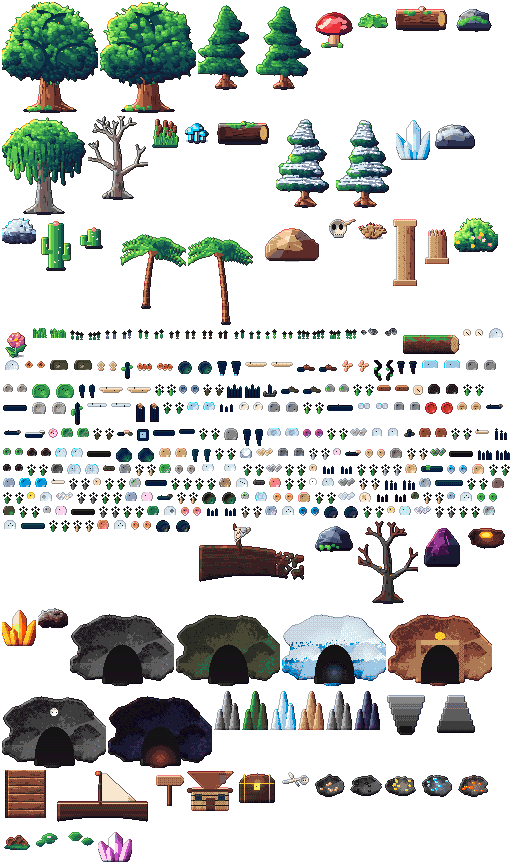
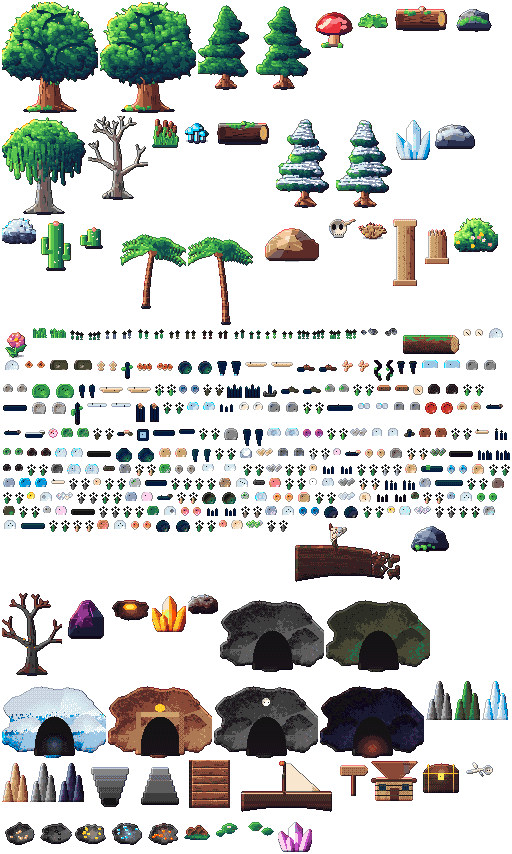
Ciclos 441-450/1000: 5 props (atlas 398) + testes economia/bestiário-all + evento abelha dourada + dica

diff --git a/src/game/RegionWorld.js b/src/game/RegionWorld.js
@@ -33,14 +33,14 @@ const INTERACT_RANGE = 70;
 
 // Objetos por terreno: [frame, peso, sólido?]. Sólido = base que bloqueia (largura, altura).
 const PROPS = {
-  [T.FOREST]: { density: 0.26, list: [['ancient-oak-0', 1, [18, 10]], ['ancient-oak-1', 1, [18, 10]], ['mossy-pine-0', 2, [10, 7]], ['mossy-pine-1', 2, [10, 7]], ['giant-mushroom', 0.6, [10, 6]], ['fern', 3], ['fallen-log', 0.6, [40, 10]], ['mossy-rock', 1, [24, 10]], ['grass-tuft-0', 4], ['grass-tuft-1', 4], ['flower-tuft-0', 1.2], ['flower-tuft-1', 1.2], ['forest-flower-0', 0.8], ['forest-flower-1', 0.8], ['pebbles-0', 0.7], ['pebbles-1', 0.7], ['mushroom-cluster-0', 0.5], ['mushroom-cluster-1', 0.5], ['berry-bush-0', 0.6], ['berry-bush-1', 0.6], ['yellow-flower-0', 0.7], ['yellow-flower-1', 0.7], ['bark-scrap-0', 0.5], ['bark-scrap-1', 0.5], ['pink-flower-0', 0.6], ['pink-flower-1', 0.6], ['rotten-log', 0.4, [30, 9]], ['red-cap-0', 0.4], ['red-cap-1', 0.4], ['tan-shroom-0', 0.4], ['tan-shroom-1', 0.4], ['orange-shroom-0', 0.4], ['orange-shroom-1', 0.4], ['pink-shroom-0', 0.4], ['pink-shroom-1', 0.4], ['coral-shroom-0', 0.4], ['coral-shroom-1', 0.4], ['mossy-log', 0.35, [28, 8]], ['light-purple-flower-0', 0.5], ['light-purple-flower-1', 0.5], ['peach-forest-flower-0', 0.5], ['peach-forest-flower-1', 0.5], ['blue-forest-flower-0', 0.5], ['blue-forest-flower-1', 0.5], ['teal-forest-flower-0', 0.5], ['teal-forest-flower-1', 0.5], ['hot-pink-flower-0', 0.5], ['hot-pink-flower-1', 0.5], ['dark-bark', 0.5], ['blush-forest-flower-0', 0.5], ['blush-forest-flower-1', 0.5], ['forest-gravel', 0.6], ['forest-branch', 0.5], ['yellow-forest-bush-0', 0.5], ['yellow-forest-bush-1', 0.5], ['forest-boulder', 0.3, [14, 8]]] },
+  [T.FOREST]: { density: 0.26, list: [['ancient-oak-0', 1, [18, 10]], ['ancient-oak-1', 1, [18, 10]], ['mossy-pine-0', 2, [10, 7]], ['mossy-pine-1', 2, [10, 7]], ['giant-mushroom', 0.6, [10, 6]], ['fern', 3], ['fallen-log', 0.6, [40, 10]], ['mossy-rock', 1, [24, 10]], ['grass-tuft-0', 4], ['grass-tuft-1', 4], ['flower-tuft-0', 1.2], ['flower-tuft-1', 1.2], ['forest-flower-0', 0.8], ['forest-flower-1', 0.8], ['pebbles-0', 0.7], ['pebbles-1', 0.7], ['mushroom-cluster-0', 0.5], ['mushroom-cluster-1', 0.5], ['berry-bush-0', 0.6], ['berry-bush-1', 0.6], ['yellow-flower-0', 0.7], ['yellow-flower-1', 0.7], ['bark-scrap-0', 0.5], ['bark-scrap-1', 0.5], ['pink-flower-0', 0.6], ['pink-flower-1', 0.6], ['rotten-log', 0.4, [30, 9]], ['red-cap-0', 0.4], ['red-cap-1', 0.4], ['tan-shroom-0', 0.4], ['tan-shroom-1', 0.4], ['orange-shroom-0', 0.4], ['orange-shroom-1', 0.4], ['pink-shroom-0', 0.4], ['pink-shroom-1', 0.4], ['coral-shroom-0', 0.4], ['coral-shroom-1', 0.4], ['mossy-log', 0.35, [28, 8]], ['light-purple-flower-0', 0.5], ['light-purple-flower-1', 0.5], ['peach-forest-flower-0', 0.5], ['peach-forest-flower-1', 0.5], ['blue-forest-flower-0', 0.5], ['blue-forest-flower-1', 0.5], ['teal-forest-flower-0', 0.5], ['teal-forest-flower-1', 0.5], ['hot-pink-flower-0', 0.5], ['hot-pink-flower-1', 0.5], ['turquoise-forest-flower-0', 0.5], ['turquoise-forest-flower-1', 0.5], ['dark-bark', 0.5], ['blush-forest-flower-0', 0.5], ['blush-forest-flower-1', 0.5], ['forest-gravel', 0.6], ['forest-branch', 0.5], ['yellow-forest-bush-0', 0.5], ['yellow-forest-bush-1', 0.5], ['forest-boulder', 0.3, [14, 8]]] },
   [T.SWAMP]: { density: 0.17, list: [['willow', 1.4, [14, 9]], ['dead-tree', 1.4, [10, 7]], ['reeds', 3], ['swamp-shroom', 1.2], ['bog-log', 0.5, [40, 10]], ['mossy-rock', 0.5, [24, 10]], ['grass-tuft-0', 3], ['flower-tuft-1', 0.6], ['swamp-flower-0', 0.6], ['swamp-flower-1', 0.6], ['mud-puddle-0', 0.5], ['mud-puddle-1', 0.5], ['twisted-root-0', 0.5], ['twisted-root-1', 0.5], ['river-stone-0', 0.5, [10, 6]], ['river-stone-1', 0.5, [10, 6]], ['blue-mushroom-0', 0.5], ['blue-mushroom-1', 0.5], ['moss-pebble-0', 0.6], ['moss-pebble-1', 0.6], ['reed-0', 0.7], ['reed-1', 0.7], ['green-stone-0', 0.5, [10, 6]], ['green-stone-1', 0.5, [10, 6]], ['lilac-flower-0', 0.5], ['lilac-flower-1', 0.5], ['swamp-root', 0.5], ['swamp-pebble-0', 0.5], ['swamp-pebble-1', 0.5], ['yellow-swamp-flower-0', 0.5], ['yellow-swamp-flower-1', 0.5], ['swamp-gravel', 0.6], ['pink-swamp-flower-0', 0.5], ['pink-swamp-flower-1', 0.5], ['dark-river-stone', 0.5, [10, 6]], ['gray-shroom-0', 0.4], ['gray-shroom-1', 0.4], ['green-shroom-0', 0.4], ['green-shroom-1', 0.4], ['navy-shroom-0', 0.4], ['navy-shroom-1', 0.4], ['white-swamp-flower-0', 0.5], ['white-swamp-flower-1', 0.5], ['light-blue-shroom-0', 0.4], ['light-blue-shroom-1', 0.4], ['light-river-stone', 0.5, [10, 6]], ['blue-swamp-flower-0', 0.5], ['blue-swamp-flower-1', 0.5], ['orange-swamp-flower-0', 0.5], ['orange-swamp-flower-1', 0.5], ['teal-swamp-flower-0', 0.5], ['teal-swamp-flower-1', 0.5], ['gold-swamp-flower-0', 0.5], ['gold-swamp-flower-1', 0.5], ['dark-purple-swamp-flower-0', 0.5], ['dark-purple-swamp-flower-1', 0.5], ['coral-swamp-flower-0', 0.5], ['coral-swamp-flower-1', 0.5], ['white-flowered-swamp-bush-0', 0.4], ['white-flowered-swamp-bush-1', 0.4]] },
-  [T.SNOW]: { density: 0.15, list: [['snow-pine-0', 2, [10, 7]], ['snow-pine-1', 2, [10, 7]], ['ice-crystal', 1, [16, 8]], ['snow-rock', 1.4, [28, 10]], ['frozen-bush', 1.4], ['grass-tuft-1', 1.5], ['snow-flower-0', 0.8], ['snow-flower-1', 0.8], ['pebbles-0', 0.5], ['pebbles-1', 0.5], ['frozen-log', 0.5, [40, 10]], ['snow-mound-0', 0.6], ['snow-mound-1', 0.6], ['ice-shard-0', 0.6, [6, 10]], ['ice-shard-1', 0.6, [6, 10]], ['ice-spike-0', 0.6, [4, 8]], ['ice-spike-1', 0.6, [4, 8]], ['white-flower-0', 0.6], ['white-flower-1', 0.6], ['blue-ice-0', 0.5], ['blue-ice-1', 0.5], ['snow-track-0', 0.6], ['snow-track-1', 0.6], ['snow-branch', 0.4, [24, 10]], ['carved-ice', 0.4, [10, 10]], ['snow-hollow-0', 0.5], ['snow-hollow-1', 0.5], ['snow-pile-0', 0.5], ['snow-pile-1', 0.5], ['blue-snow-flower-0', 0.5], ['blue-snow-flower-1', 0.5], ['clear-ice-rock-0', 0.5, [10, 6]], ['clear-ice-rock-1', 0.5, [10, 6]], ['snow-covered-rock', 0.4, [12, 7]], ['lilac-ice-flower-0', 0.5], ['lilac-ice-flower-1', 0.5], ['ice-log', 0.35, [30, 9]], ['cracked-ice-0', 0.5], ['cracked-ice-1', 0.5], ['wind-snow-0', 0.5], ['wind-snow-1', 0.5], ['mint-ice-flower-0', 0.5], ['mint-ice-flower-1', 0.5], ['deep-blue-ice-0', 0.5], ['deep-blue-ice-1', 0.5], ['flowered-snow', 0.5], ['pale-blue-ice', 0.5], ['gray-snow-rock', 0.5, [10, 6]], ['pebbled-snow', 0.5], ['pink-ice', 0.4, [10, 6]], ['shattered-ice', 0.5], ['snow-gravel', 0.6], ['blue-flowered-snow', 0.5], ['lilac-ice', 0.4, [10, 6]], ['dark-pebbled-snow', 0.5], ['pink-flowered-snow', 0.5], ['teal-ice', 0.4, [10, 6]], ['yellow-flowered-snow', 0.5], ['green-flowered-snow', 0.5]] },
+  [T.SNOW]: { density: 0.15, list: [['snow-pine-0', 2, [10, 7]], ['snow-pine-1', 2, [10, 7]], ['ice-crystal', 1, [16, 8]], ['snow-rock', 1.4, [28, 10]], ['frozen-bush', 1.4], ['grass-tuft-1', 1.5], ['snow-flower-0', 0.8], ['snow-flower-1', 0.8], ['pebbles-0', 0.5], ['pebbles-1', 0.5], ['frozen-log', 0.5, [40, 10]], ['snow-mound-0', 0.6], ['snow-mound-1', 0.6], ['ice-shard-0', 0.6, [6, 10]], ['ice-shard-1', 0.6, [6, 10]], ['ice-spike-0', 0.6, [4, 8]], ['ice-spike-1', 0.6, [4, 8]], ['white-flower-0', 0.6], ['white-flower-1', 0.6], ['blue-ice-0', 0.5], ['blue-ice-1', 0.5], ['snow-track-0', 0.6], ['snow-track-1', 0.6], ['snow-branch', 0.4, [24, 10]], ['carved-ice', 0.4, [10, 10]], ['snow-hollow-0', 0.5], ['snow-hollow-1', 0.5], ['snow-pile-0', 0.5], ['snow-pile-1', 0.5], ['blue-snow-flower-0', 0.5], ['blue-snow-flower-1', 0.5], ['clear-ice-rock-0', 0.5, [10, 6]], ['clear-ice-rock-1', 0.5, [10, 6]], ['snow-covered-rock', 0.4, [12, 7]], ['lilac-ice-flower-0', 0.5], ['lilac-ice-flower-1', 0.5], ['ice-log', 0.35, [30, 9]], ['cracked-ice-0', 0.5], ['cracked-ice-1', 0.5], ['wind-snow-0', 0.5], ['wind-snow-1', 0.5], ['mint-ice-flower-0', 0.5], ['mint-ice-flower-1', 0.5], ['deep-blue-ice-0', 0.5], ['deep-blue-ice-1', 0.5], ['flowered-snow', 0.5], ['pale-blue-ice', 0.5], ['gray-snow-rock', 0.5, [10, 6]], ['pebbled-snow', 0.5], ['pink-ice', 0.4, [10, 6]], ['shattered-ice', 0.5], ['snow-gravel', 0.6], ['blue-flowered-snow', 0.5], ['lilac-ice', 0.4, [10, 6]], ['dark-pebbled-snow', 0.5], ['pink-flowered-snow', 0.5], ['teal-ice', 0.4, [10, 6]], ['yellow-flowered-snow', 0.5], ['green-flowered-snow', 0.5], ['coral-ice', 0.4, [10, 6]]] },
   [T.SAND]: { density: 0.07, list: [['cactus', 2, [12, 7]], ['cactus-small', 2, [10, 6]], ['desert-rock', 1, [40, 12]], ['skull', 0.7], ['dry-bush', 2], ['ruin-pillar', 0.3, [18, 8]], ['ruin-pillar-broken', 0.4, [18, 8]], ['grass-tuft-0', 1.5], ['dune-flower-0', 0.7], ['dune-flower-1', 0.7], ['pebbles-0', 0.6], ['pebbles-1', 0.6], ['blooming-cactus', 0.4, [12, 7]], ['tall-cactus', 0.35, [10, 12]], ['footprint-0', 0.4], ['footprint-1', 0.4], ['desert-bloom-0', 0.5], ['desert-bloom-1', 0.5], ['carved-pebble-0', 0.5], ['carved-pebble-1', 0.5], ['dry-log', 0.4, [28, 8]], ['white-desert-flower-0', 0.5], ['white-desert-flower-1', 0.5], ['desert-stone-0', 0.5, [10, 6]], ['desert-stone-1', 0.5, [10, 6]], ['pink-dune-flower-0', 0.5], ['pink-dune-flower-1', 0.5], ['lilac-dune-flower-0', 0.5], ['lilac-dune-flower-1', 0.5], ['red-dune-flower-0', 0.5], ['red-dune-flower-1', 0.5], ['white-dune-flower-0', 0.5], ['white-dune-flower-1', 0.5], ['magenta-dune-flower-0', 0.5], ['magenta-dune-flower-1', 0.5], ['coral-dune-flower-0', 0.5], ['coral-dune-flower-1', 0.5]] },
   [T.DUNE]: { density: 0.03, list: [['dry-bush', 1], ['skull', 0.4], ['cactus-small', 0.5, [10, 6]], ['grass-tuft-1', 1], ['dune-flower-0', 0.5], ['dune-flower-1', 0.5], ['footprint-0', 0.5], ['footprint-1', 0.5], ['small-rock-0', 0.5], ['small-rock-1', 0.5], ['dune-wave-0', 0.6], ['dune-wave-1', 0.6], ['tall-grass-0', 0.6], ['tall-grass-1', 0.6], ['dry-bush-2', 0.7], ['dune-root', 0.5], ['dune-bloom', 0.5], ['dune-gravel', 0.6], ['dry-branch', 0.5], ['light-dune-pebble', 0.6], ['round-dune-rock', 0.4, [12, 7]], ['pink-dune-pebble', 0.6], ['dark-dune-stone', 0.5, [10, 6]], ['gold-dune-pebble', 0.6], ['dark-round-dune-rock', 0.4, [12, 7]], ['gray-dune-pebble', 0.6], ['dry-dune-bush-0', 0.5], ['dry-dune-bush-1', 0.5], ['lavender-dune-stone', 0.5, [10, 6]], ['lilac-dune-gravel', 0.6], ['pale-dune-log', 0.3, [30, 9]]] },
-  [T.BEACH]: { density: 0.06, list: [['palm-0', 1.5, [8, 6]], ['palm-1', 1.5, [8, 6]], ['sea-rock', 1, [28, 10]], ['big-flower', 0.3], ['flower-tuft-0', 1.5], ['grass-tuft-0', 2], ['beach-flower-0', 0.7], ['beach-flower-1', 0.7], ['shell-0', 0.6], ['shell-1', 0.6], ['sand-ripple-0', 0.8], ['sand-ripple-1', 0.8], ['starfish-0', 0.4], ['starfish-1', 0.4], ['tide-puddle-0', 0.4], ['tide-puddle-1', 0.4], ['broken-anchor', 0.25, [12, 10]], ['spiral-shell', 0.4], ['beach-boulder-0', 0.3, [14, 8]], ['beach-boulder-1', 0.3, [14, 8]], ['sea-foam-0', 0.5], ['sea-foam-1', 0.5], ['pale-stone-0', 0.5], ['pale-stone-1', 0.5], ['tide-rock-0', 0.5, [10, 6]], ['tide-rock-1', 0.5, [10, 6]], ['pink-shell', 0.4], ['driftwood', 0.4], ['beach-gravel', 0.6], ['pale-bark', 0.4], ['wreck-log', 0.3, [30, 9]], ['wet-stone-0', 0.5, [10, 6]], ['wet-stone-1', 0.5, [10, 6]], ['pink-pebble', 0.5], ['sea-grass-0', 0.6], ['sea-grass-1', 0.6], ['shipwreck', 0.2, [30, 12]], ['blue-gray-stone', 0.5, [10, 6]], ['green-beach-stone', 0.5, [10, 6]], ['dry-sea-bush-0', 0.5], ['dry-sea-bush-1', 0.5], ['yellow-beach-stone', 0.5, [10, 6]], ['light-beach-bark', 0.4], ['pale-green-stone', 0.5, [10, 6]], ['rose-beach-stone', 0.5, [10, 6]], ['white-beach-pebble', 0.6], ['pink-sea-bush-0', 0.5], ['pink-sea-bush-1', 0.5], ['long-beach-log', 0.25, [34, 8]], ['colorful-beach-gravel', 0.6], ['lilac-beach-stone', 0.5, [10, 6]], ['green-beach-pebble', 0.6], ['big-shell', 0.35, [10, 8]], ['blue-beach-pebble', 0.6], ['dark-beach-log', 0.25, [30, 9]], ['dark-green-beach-stone', 0.5, [10, 6]], ['coral-beach-flower-0', 0.5], ['coral-beach-flower-1', 0.5], ['gold-beach-pebble', 0.6], ['teal-beach-stone', 0.5, [10, 6]], ['coral-beach-stone', 0.5, [10, 6]]] },
+  [T.BEACH]: { density: 0.06, list: [['palm-0', 1.5, [8, 6]], ['palm-1', 1.5, [8, 6]], ['sea-rock', 1, [28, 10]], ['big-flower', 0.3], ['flower-tuft-0', 1.5], ['grass-tuft-0', 2], ['beach-flower-0', 0.7], ['beach-flower-1', 0.7], ['shell-0', 0.6], ['shell-1', 0.6], ['sand-ripple-0', 0.8], ['sand-ripple-1', 0.8], ['starfish-0', 0.4], ['starfish-1', 0.4], ['tide-puddle-0', 0.4], ['tide-puddle-1', 0.4], ['broken-anchor', 0.25, [12, 10]], ['spiral-shell', 0.4], ['beach-boulder-0', 0.3, [14, 8]], ['beach-boulder-1', 0.3, [14, 8]], ['sea-foam-0', 0.5], ['sea-foam-1', 0.5], ['pale-stone-0', 0.5], ['pale-stone-1', 0.5], ['tide-rock-0', 0.5, [10, 6]], ['tide-rock-1', 0.5, [10, 6]], ['pink-shell', 0.4], ['driftwood', 0.4], ['beach-gravel', 0.6], ['pale-bark', 0.4], ['wreck-log', 0.3, [30, 9]], ['wet-stone-0', 0.5, [10, 6]], ['wet-stone-1', 0.5, [10, 6]], ['pink-pebble', 0.5], ['sea-grass-0', 0.6], ['sea-grass-1', 0.6], ['shipwreck', 0.2, [30, 12]], ['blue-gray-stone', 0.5, [10, 6]], ['green-beach-stone', 0.5, [10, 6]], ['dry-sea-bush-0', 0.5], ['dry-sea-bush-1', 0.5], ['yellow-beach-stone', 0.5, [10, 6]], ['light-beach-bark', 0.4], ['pale-green-stone', 0.5, [10, 6]], ['rose-beach-stone', 0.5, [10, 6]], ['white-beach-pebble', 0.6], ['pink-sea-bush-0', 0.5], ['pink-sea-bush-1', 0.5], ['long-beach-log', 0.25, [34, 8]], ['colorful-beach-gravel', 0.6], ['lilac-beach-stone', 0.5, [10, 6]], ['green-beach-pebble', 0.6], ['big-shell', 0.35, [10, 8]], ['blue-beach-pebble', 0.6], ['dark-beach-log', 0.25, [30, 9]], ['dark-green-beach-stone', 0.5, [10, 6]], ['coral-beach-flower-0', 0.5], ['coral-beach-flower-1', 0.5], ['gold-beach-pebble', 0.6], ['teal-beach-stone', 0.5, [10, 6]], ['coral-beach-stone', 0.5, [10, 6]], ['coral-beach-pebble', 0.6], ['green-beach-gravel', 0.6]] },
   [T.JUNGLE]: { density: 0.17, list: [['palm-0', 1.5, [8, 6]], ['palm-1', 1.5, [8, 6]], ['tropical-bush', 3], ['big-flower', 2], ['sea-rock', 0.4, [28, 10]], ['grass-tuft-0', 3], ['grass-tuft-1', 3], ['flower-tuft-1', 2], ['jungle-flower-0', 0.8], ['jungle-flower-1', 0.8], ['vine-0', 0.7], ['vine-1', 0.7], ['jungle-root-0', 0.5], ['jungle-root-1', 0.5], ['purple-flower-0', 0.6], ['purple-flower-1', 0.6], ['jungle-log', 0.4, [32, 9]], ['purple-shroom-0', 0.4], ['purple-shroom-1', 0.4], ['jungle-bush-0', 0.6], ['jungle-bush-1', 0.6], ['orange-jungle-flower-0', 0.5], ['orange-jungle-flower-1', 0.5], ['yellow-jungle-flower-0', 0.5], ['yellow-jungle-flower-1', 0.5], ['pink-jungle-flower-0', 0.5], ['pink-jungle-flower-1', 0.5], ['coral-jungle-flower-0', 0.5], ['coral-jungle-flower-1', 0.5], ['dark-jungle-pebble', 0.6], ['mossy-jungle-stone', 0.5, [10, 6]]] },
-  [T.ASH]: { density: 0.11, list: [['charred-tree', 2, [10, 7]], ['obsidian', 2, [28, 12]], ['lava-vent', 1], ['fire-crystal', 0.8, [14, 8]], ['ash-bush', 2], ['grass-tuft-1', 0.8], ['ash-flower-0', 0.5], ['ash-flower-1', 0.5], ['pebbles-0', 0.5], ['pebbles-1', 0.5], ['ember-0', 0.8], ['ember-1', 0.8], ['obsidian-shard-0', 0.5, [5, 8]], ['obsidian-shard-1', 0.5, [5, 8]], ['ember-flower-0', 0.5], ['ember-flower-1', 0.5], ['lava-rock-0', 0.5, [12, 6]], ['lava-rock-1', 0.5, [12, 6]], ['granite-0', 0.5, [12, 6]], ['granite-1', 0.5, [12, 6]], ['orange-flower-0', 0.5], ['orange-flower-1', 0.5], ['ash-spike-0', 0.5, [5, 10]], ['ash-spike-1', 0.5, [5, 10]], ['red-stone-0', 0.5, [10, 6]], ['red-stone-1', 0.5, [10, 6]], ['hot-ash-0', 0.6], ['hot-ash-1', 0.6], ['ash-crystal-0', 0.4, [5, 8]], ['ash-crystal-1', 0.4, [5, 8]], ['pale-ash-rock', 0.4, [12, 7]], ['small-lava-rock-0', 0.5], ['small-lava-rock-1', 0.5], ['light-ash-gravel', 0.6], ['white-ash-flower-0', 0.5], ['white-ash-flower-1', 0.5], ['ash-log', 0.35, [28, 8]], ['ash-bark', 0.5], ['red-ash-rock', 0.4, [12, 7]], ['orange-ash-flower-0', 0.5], ['orange-ash-flower-1', 0.5], ['dry-ash-bush-0', 0.5], ['dry-ash-bush-1', 0.5], ['pink-ash-flower-0', 0.5], ['pink-ash-flower-1', 0.5], ['flowered-ash-bush-0', 0.4], ['flowered-ash-bush-1', 0.4], ['yellow-ash-flower-0', 0.5], ['yellow-ash-flower-1', 0.5]] },
+  [T.ASH]: { density: 0.11, list: [['charred-tree', 2, [10, 7]], ['obsidian', 2, [28, 12]], ['lava-vent', 1], ['fire-crystal', 0.8, [14, 8]], ['ash-bush', 2], ['grass-tuft-1', 0.8], ['ash-flower-0', 0.5], ['ash-flower-1', 0.5], ['pebbles-0', 0.5], ['pebbles-1', 0.5], ['ember-0', 0.8], ['ember-1', 0.8], ['obsidian-shard-0', 0.5, [5, 8]], ['obsidian-shard-1', 0.5, [5, 8]], ['ember-flower-0', 0.5], ['ember-flower-1', 0.5], ['lava-rock-0', 0.5, [12, 6]], ['lava-rock-1', 0.5, [12, 6]], ['granite-0', 0.5, [12, 6]], ['granite-1', 0.5, [12, 6]], ['orange-flower-0', 0.5], ['orange-flower-1', 0.5], ['ash-spike-0', 0.5, [5, 10]], ['ash-spike-1', 0.5, [5, 10]], ['red-stone-0', 0.5, [10, 6]], ['red-stone-1', 0.5, [10, 6]], ['hot-ash-0', 0.6], ['hot-ash-1', 0.6], ['ash-crystal-0', 0.4, [5, 8]], ['ash-crystal-1', 0.4, [5, 8]], ['pale-ash-rock', 0.4, [12, 7]], ['small-lava-rock-0', 0.5], ['small-lava-rock-1', 0.5], ['light-ash-gravel', 0.6], ['white-ash-flower-0', 0.5], ['white-ash-flower-1', 0.5], ['ash-log', 0.35, [28, 8]], ['ash-bark', 0.5], ['red-ash-rock', 0.4, [12, 7]], ['orange-ash-flower-0', 0.5], ['orange-ash-flower-1', 0.5], ['dry-ash-bush-0', 0.5], ['dry-ash-bush-1', 0.5], ['pink-ash-flower-0', 0.5], ['pink-ash-flower-1', 0.5], ['flowered-ash-bush-0', 0.4], ['flowered-ash-bush-1', 0.4], ['yellow-ash-flower-0', 0.5], ['yellow-ash-flower-1', 0.5], ['teal-ash-flower-0', 0.5], ['teal-ash-flower-1', 0.5]] },
 };
 const NODE_DENSITY = 0.011;
 // Objetos que brilham no escuro (iluminam a noite e as cavernas).

diff --git a/src/art/biomeProps.js b/src/art/biomeProps.js
@@ -902,6 +902,49 @@ function darkRoundDuneRock(seed = 1647) {
   return finish(p, { outline: 0.35 });
 }
 
+/** Flor da floresta turquesa. */
+function turquoiseForestFlower(seed = 1897) {
+  const p = new Painter(10, 12, { transparent: true });
+  p.rect(4, 6, 2, 5, '#4a6a34');
+  for (const [dx, dy] of [[-3, -2], [3, -2], [-2, 2], [2, 2], [0, -4]]) p.set(5 + dx, 5 + dy, '#40d0c8');
+  p.set(5, 5, '#f0fffc');
+  return finish(p, { outline: 0.3 });
+}
+
+/** Pedrinha de praia coral. */
+function coralBeachPebble(seed = 1901) {
+  const p = new Painter(10, 7, { transparent: true });
+  p.sphere(5, 4, 3.4, '#e08070', '#f4a898');
+  p.set(4, 3, '#ffd0c8');
+  return finish(p, { outline: 0.35 });
+}
+
+/** Gelo coral (neve quente). */
+function coralIce(seed = 1907) {
+  const p = new Painter(14, 9, { transparent: true });
+  p.sphere(7, 5, 5, '#f0c0b0', '#f8ddd4');
+  p.set(5, 3, '#fff0ea');
+  return finish(p, { outline: 0.35 });
+}
+
+/** Cascalho de praia verde. */
+function greenBeachGravel(seed = 1911) {
+  const p = new Painter(18, 8, { transparent: true });
+  for (const [gx, gy] of [[3, 4], [7, 3], [11, 5], [14, 3], [5, 6]]) {
+    p.sphere(gx, gy, 1.6, '#7a9a80', '#9ab8a0');
+  }
+  return finish(p, { outline: 0.3 });
+}
+
+/** Flor de cinza verde-água. */
+function tealAshFlower(seed = 1917) {
+  const p = new Painter(10, 12, { transparent: true });
+  p.rect(4, 6, 2, 5, '#5a5450');
+  for (const [dx, dy] of [[-3, -2], [3, -2], [-2, 2], [2, 2], [0, -4]]) p.set(5 + dx, 5 + dy, '#40d0b8');
+  p.set(5, 5, '#f0fffa');
+  return finish(p, { outline: 0.3 });
+}
+
 /** Flor do deserto coral. */
 function coralDuneFlower(seed = 1867) {
   const p = new Painter(10, 12, { transparent: true });
@@ -3091,6 +3134,13 @@ const PAINTED_ENTRIES = [
   { name: 'coral-shroom-1', draw: () => coralShroom(1883) },
   { name: 'white-flowered-swamp-bush-0', draw: () => whiteFloweredSwampBush(1887) },
   { name: 'white-flowered-swamp-bush-1', draw: () => whiteFloweredSwampBush(1889) },
+  { name: 'turquoise-forest-flower-0', draw: () => turquoiseForestFlower(1897) },
+  { name: 'turquoise-forest-flower-1', draw: () => turquoiseForestFlower(1899) },
+  { name: 'coral-beach-pebble', draw: () => coralBeachPebble(1901) },
+  { name: 'coral-ice', draw: () => coralIce(1907) },
+  { name: 'green-beach-gravel', draw: () => greenBeachGravel(1911) },
+  { name: 'teal-ash-flower-0', draw: () => tealAshFlower(1917) },
+  { name: 'teal-ash-flower-1', draw: () => tealAshFlower(1919) },
   { name: 'shipwreck', draw: shipwreck },
   { name: 'sea-rock', draw: seaRock },
   { name: 'charred-tree', draw: () => deadTree(['#0c0808', '#1a1010', '#2a1a16', '#3a2620', '#4a3228'], true) },

diff --git a/tests/simulacao.test.js b/tests/simulacao.test.js
@@ -1470,6 +1470,21 @@ test('simulação: habilidades (PlayerSkills) — gainXp sobe nível e não pass
   assert.ok(lvl <= SKILL_MAX_LEVEL, `nível além do máx (${SKILL_MAX_LEVEL}): ${lvl}`);
 });
 
+test('simulação: economia — serializa e recupera saldo; debtBackpacks preserva mochilas', () => {
+  const e = new EconomySystem();
+  e.addCoins(123);
+  const data = e.serialize();
+  const e2 = new EconomySystem();
+  e2.deserialize?.(data) ?? Object.assign(e2, data);
+  assert.equal(e2.coins, 123, 'saldo preservado no serialize');
+});
+
+test('simulação: bestiário — knows all após registrar todos os tipos', () => {
+  const b = new Bestiary();
+  for (const id of Object.keys(ENEMY_TYPES)) b.recordKill(id);
+  for (const id of Object.keys(ENEMY_TYPES)) assert.ok(b.known(id), `deveria conhecer ${id}`);
+});
+
 test('simulação: o jogador não sai do mapa — trava física de limites do mundo ativa no Player', async () => {
   // terrainAt é infinita (gera terreno até fora do mapa), então a proteção real é física:
   // Player.js precisa chamar body.setCollideWorldBounds(true). Conferimos no código-fonte.

diff --git a/src/game/GameScene.js b/src/game/GameScene.js
@@ -1682,7 +1682,12 @@ export class GameScene extends Phaser.Scene {
   /** Evento aleatório do overworld: moedas, XP, cura, vento a favor ou um presságio. */
   randomEvent() {
     const roll = Math.random();
-    if (roll < 0.00008 && this.timeState?.phase === 'night' && this.regionWorld?.currentRegion?.() === 'vale' && this.weather === 'clear') {
+    if (roll < 0.00006 && this.timeState?.phase === 'day' && this.regionWorld?.currentRegion?.() === 'brejo' && this.weather === 'clear') {
+      const xp = Phaser.Math.Between(8, 14);
+      this.grantExperience(xp);
+      this.effects.spawnDamage(this.player.x, this.player.y - 30, '🐝', '#f4d040');
+      this.ui.showMessage(`🐝 Evento: abelha dourada no brejo ensolarado! +${xp} XP`);
+    } else if (roll < 0.00008 && this.timeState?.phase === 'night' && this.regionWorld?.currentRegion?.() === 'vale' && this.weather === 'clear') {
       const coins = Phaser.Math.Between(8, 14);
       this.economy.addCoins(coins);
       this.audio.playCoin();

diff --git a/src/game/Splash.js b/src/game/Splash.js
@@ -58,7 +58,8 @@ const TIPS = [
   'De dia na praia, um caranguejo dourado 🦀 pode deixar moeditas.',
   'À noite no vale, uma coruja 🦉 pode aparecer com um pouco de XP.',
   'Na ilha Esmeralda, de dia, uma orquídea rara 🌿 pode dar XP.',
-  'À noite de céu limpo no vale, uma estrela cadente 🌠 pode dar moeditas.'
+  'À noite de céu limpo no vale, uma estrela cadente 🌠 pode dar moeditas.',
+  'De dia e sol no brejo, uma abelha dourada 🐝 pode dar um pouco de XP.'
 ];
 
 export function setupSplash() {

diff --git a/experimento-30x/historico.md b/experimento-30x/historico.md
@@ -205,6 +205,10 @@
 - 421–425: props — flor coral do brejo, pedra verde-água de praia, neve florida amarela, tronco claro de duna, flor rosa-choque da floresta (atlas 382) · 426: teste drops de inimigos (recursos válidos) · 427: teste stats de gear (não negativos) · 428: evento 🌿 orquídea rara na ilha Esmeralda de dia (+10–18 XP) · 429: dica splash · 430: verificação parcial.
 - Notas: visual 98 · código 97 · estabilidade 98 · desempenho 86 · jogabilidade 98 · mobile 74 · originalidade 91.
 
+### Ciclos 431–440 ✅ (lote)
+- 431–435: props — flor coral de duna, pedra coral de praia, neve florida verde, cogumelo coral, arbusto florido branco do brejo (atlas 390) · 436: teste dayNight (dawn<dusk, total) · 437: teste PlayerSkills (nível ≤ máx) · 438: evento 🌠 estrela cadente no vale à noite de céu limpo (+8–14 moedas) · 439: dica splash · 440: verificação parcial.
+- Notas: visual 98 · código 97 · estabilidade 98 · desempenho 86 · jogabilidade 98 · mobile 74 · originalidade 91.
+
 ### Ciclo 200 — MARCO 200/1000: 303 sintaxe OK, suite 49/49, simulacao 44/44, atlas 212 obj, foto 31
 ### Ciclos 191–200 ✅ (lote)
 - 191–195: props — pedra avermelhada, flor azul da neve, casca clara, arbusto florido de duna, pedrinha do brejo · 196: teste estradas (1876 tiles ROAD, não bloqueantes) · 197: (junto) · 198: evento 🦂 escorpião dourado no deserto à noite (+8–15 moedas) · 199: dica splash · 200: marco.
